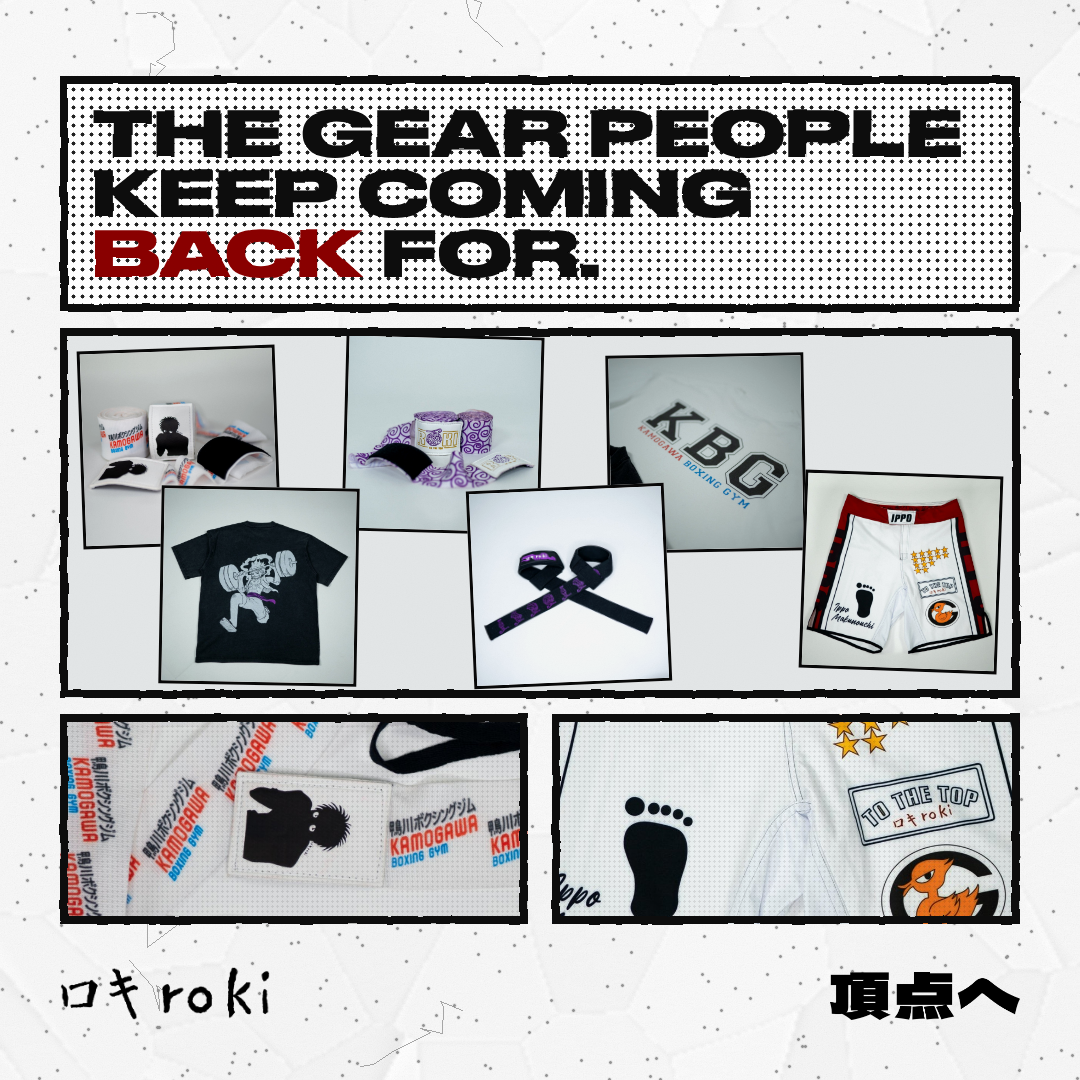
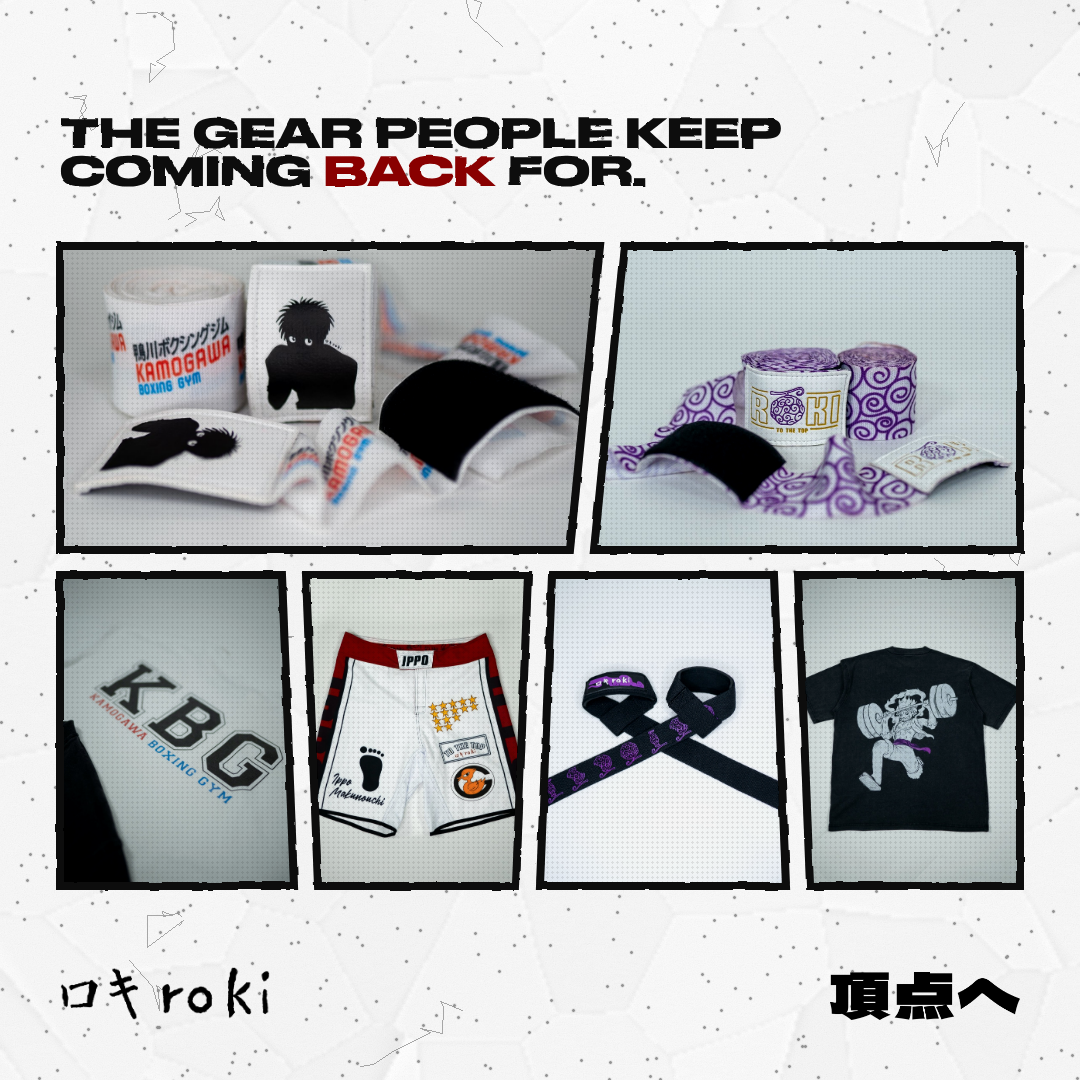
Revise AD-006 slides 1 and 8
Cover: the hook now sits straight on the page above a slanted-gutter manga
grid of the six best sellers, replacing the framed line-up with nested
detail panels. Slides 1 and 8 drop the screen-tone dots behind their
headlines so the copy reads cleanly.

Claude-Session: https://claude.ai/code/session_012ToaCKfjMXucVavzk9q6An

diff --git a/ads/AD-006/layout/slides/slide-1.html b/ads/AD-006/layout/slides/slide-1.html
@@ -44,6 +44,13 @@ font:700 32px/1.02 var(--font-display);letter-spacing:0}
 .chip.pname{font:700 36px/1 var(--font-display);color:var(--RokiRed);padding:12px 16px 8px}
 .cap{bottom:-30px;left:30px}
 .pn>img.ht{position:absolute;inset:0;width:100%;height:100%;object-fit:cover}
+.pn.text.plain{background:var(--paper)}
+.cell.bare::after{display:none}
+.cell.bare>.pn.text.plain{background:transparent;padding:0}
+.mp{position:absolute}
+.mp>img.ph{position:absolute;inset:0;width:100%;height:100%;object-fit:cover;filter:contrast(1.08) brightness(.96) saturate(.95)}
+.mp .tone{position:absolute;inset:0;background:radial-gradient(circle,rgba(8,8,8,.55) 32%,transparent 36%) 0 0/5px 5px;mix-blend-mode:multiply;opacity:.16}
+.mstroke{position:absolute;left:0;top:0;color:var(--panel);overflow:visible;z-index:3}
 
 .stack{z-index:2}
 .pn{outline:none!important}
@@ -61,7 +68,7 @@ body.dark #grainA{mix-blend-mode:screen;opacity:.08}
 <feDiffuseLighting in="n" surfaceScale="2" lighting-color="#fff"><feDistantLight azimuth="235" elevation="58"/></feDiffuseLighting></filter>
 <filter id="rough" x="-3%" y="-3%" width="106%" height="106%"><feTurbulence type="fractalNoise" baseFrequency=".035" numOctaves="3" seed="3" result="n"/>
 <feDisplacementMap in="SourceGraphic" in2="n" scale="3" xChannelSelector="R" yChannelSelector="G"/></filter>
-</defs></svg><img class="stock" src="../assets/grunge/paper/cool_0.jpg"><img class="gr" src="../assets/grunge/grunge/dust_0.png" style="opacity:0.4"><div id="grainA" style="filter:url(#grainf)"></div><div class="stack"><div class="row"><div class="cell" style="width:960px"><div class="pn text screentone"><div class="hook" style="filter:url(#rough)">THE GEAR PEOPLE KEEP COMING <span class="acc">BACK</span> FOR.</div></div></div></div><div class="row"><div class="cell" style="width:960px;height:370px"><div class="pn"><div style="position:absolute;inset:0;background:var(--studio-grey)"><div class="tile-frame" style="left:20px;top:20px;width:198px;height:198px;transform:rotate(-2deg)"><img src="../assets/kbg-wraps-2.jpg" style="object-position:50% 55%"></div><div class="tile-frame" style="left:284px;top:7px;width:198px;height:198px;transform:rotate(1.5deg)"><img src="../assets/gomu-2.jpg" style="object-position:50% 50%"></div><div class="tile-frame" style="left:547px;top:26px;width:198px;height:198px;transform:rotate(-1deg)"><img src="../assets/shirt-1.jpg" style="object-position:50% 50%"></div><div class="tile-frame" style="left:742px;top:145px;width:198px;height:198px;transform:rotate(2deg)"><img src="../assets/shorts-1.jpg" style="object-position:50% 50%"></div><div class="tile-frame" style="left:410px;top:159px;width:198px;height:198px;transform:rotate(-2.5deg)"><img src="../assets/straps-1.jpg" style="object-position:50% 50%"></div><div class="tile-frame" style="left:100px;top:159px;width:198px;height:198px;transform:rotate(1deg)"><img src="../assets/muki-2.jpg" style="object-position:50% 50%"></div></div></div></div></div><div class="row"><div class="cell" style="width:468px;height:210px"><div class="pn"><img class="ph" src="../assets/kbg-wraps-1.jpg" style="object-position:40% 50%;transform:scale(1.3);transform-origin:40% 50%;"><div class="tone"></div></div></div><div class="cell" style="width:468px;height:210px"><div class="pn"><img class="ph" src="../assets/shorts-1.jpg" style="object-position:50% 60%;transform:scale(1.5);transform-origin:50% 60%;"><div class="tone"></div></div></div></div></div><img class="logo" src="../assets/wordmark-black.png" style="left:60px;top:967px;width:210px"><img class="logo" src="../assets/choten-black.png" style="right:60px;top:972px;width:190px"><svg width="0" height="0" style="position:absolute"><filter id="roughf" x="-2%" y="-2%" width="104%" height="104%">
+</defs></svg><img class="stock" src="../assets/grunge/paper/cool_0.jpg"><img class="gr" src="../assets/grunge/grunge/dust_0.png" style="opacity:0.4"><div id="grainA" style="filter:url(#grainf)"></div><div class="stack"><div class="row"><div class="cell bare" style="width:960px"><div class="pn text plain"><div class="hook" style="filter:url(#rough)">THE GEAR PEOPLE KEEP COMING <span class="acc">BACK</span> FOR.</div></div></div></div><div class="row"><div class="cell bare" style="width:960px;height:640px"><div class="mp" style="left:0px;top:0px;width:540px;height:304px;clip-path:polygon(0px 0px,540px 0px,510px 304px,0px 304px)"><img class="ph" src="../assets/kbg-wraps-2.jpg" style="object-position:50% 55%;"><div class="tone"></div></div><div class="mp" style="left:534px;top:0px;width:426px;height:304px;clip-path:polygon(30px 0px,426px 0px,426px 304px,0px 304px)"><img class="ph" src="../assets/gomu-2.jpg" style="object-position:50% 50%;"><div class="tone"></div></div><div class="mp" style="left:0px;top:329px;width:234px;height:311px;clip-path:polygon(0px 0px,222px 0px,234px 311px,0px 311px)"><img class="ph" src="../assets/shirt-1.jpg" style="object-position:50% 50%;"><div class="tone"></div></div><div class="mp" style="left:246px;top:329px;width:222px;height:311px;clip-path:polygon(0px 0px,222px 0px,210px 311px,12px 311px)"><img class="ph" src="../assets/shorts-1.jpg" style="object-position:50% 50%;"><div class="tone"></div></div><div class="mp" style="left:480px;top:329px;width:246px;height:311px;clip-path:polygon(12px 0px,234px 0px,246px 311px,0px 311px)"><img class="ph" src="../assets/straps-1.jpg" style="object-position:50% 50%;"><div class="tone"></div></div><div class="mp" style="left:738px;top:329px;width:222px;height:311px;clip-path:polygon(0px 0px,222px 0px,222px 311px,12px 311px)"><img class="ph" src="../assets/muki-2.jpg" style="object-position:50% 50%;"><div class="tone"></div></div><svg class="mstroke" width="960" height="640"><g fill="none" stroke="currentColor" stroke-width="8" stroke-linejoin="miter" filter="url(#roughf)"><polygon points="0,0 540,0 510,304 0,304"/><polygon points="564,0 960,0 960,304 534,304"/><polygon points="0,329 222,329 234,640 0,640"/><polygon points="246,329 468,329 456,640 258,640"/><polygon points="492,329 714,329 726,640 480,640"/><polygon points="738,329 960,329 960,640 750,640"/></g></svg></div></div></div><img class="logo" src="../assets/wordmark-black.png" style="left:60px;top:967px;width:210px"><img class="logo" src="../assets/choten-black.png" style="right:60px;top:972px;width:190px"><svg width="0" height="0" style="position:absolute"><filter id="roughf" x="-2%" y="-2%" width="104%" height="104%">
 <feTurbulence type="fractalNoise" baseFrequency=".04" numOctaves="3" seed="11" result="n"/>
 <feDisplacementMap in="SourceGraphic" in2="n" scale="3" xChannelSelector="R" yChannelSelector="G"/></filter></svg><div id="grain" style="filter:url(#grainf)"></div><script>
 function fit(el,maxW,lo=40,hi=140){while(hi-lo>1){const m=(lo+hi)>>1;el.style.fontSize=m+'px';el.scrollWidth<=maxW?lo=m:hi=m}el.style.fontSize=lo+'px'}

diff --git a/ads/AD-006/layout/slides/slide-8.html b/ads/AD-006/layout/slides/slide-8.html
@@ -44,6 +44,13 @@ font:700 32px/1.02 var(--font-display);letter-spacing:0}
 .chip.pname{font:700 36px/1 var(--font-display);color:var(--RokiRed);padding:12px 16px 8px}
 .cap{bottom:-30px;left:30px}
 .pn>img.ht{position:absolute;inset:0;width:100%;height:100%;object-fit:cover}
+.pn.text.plain{background:var(--paper)}
+.cell.bare::after{display:none}
+.cell.bare>.pn.text.plain{background:transparent;padding:0}
+.mp{position:absolute}
+.mp>img.ph{position:absolute;inset:0;width:100%;height:100%;object-fit:cover;filter:contrast(1.08) brightness(.96) saturate(.95)}
+.mp .tone{position:absolute;inset:0;background:radial-gradient(circle,rgba(8,8,8,.55) 32%,transparent 36%) 0 0/5px 5px;mix-blend-mode:multiply;opacity:.16}
+.mstroke{position:absolute;left:0;top:0;color:var(--panel);overflow:visible;z-index:3}
 
 .stack{z-index:2}
 .pn{outline:none!important}
@@ -61,7 +68,7 @@ body.dark #grainA{mix-blend-mode:screen;opacity:.08}
 <feDiffuseLighting in="n" surfaceScale="2" lighting-color="#fff"><feDistantLight azimuth="235" elevation="58"/></feDiffuseLighting></filter>
 <filter id="rough" x="-3%" y="-3%" width="106%" height="106%"><feTurbulence type="fractalNoise" baseFrequency=".035" numOctaves="3" seed="3" result="n"/>
 <feDisplacementMap in="SourceGraphic" in2="n" scale="3" xChannelSelector="R" yChannelSelector="G"/></filter>
-</defs></svg><img class="gr" src="../assets/grunge/grunge/dust_1.png" style="opacity:0.3"><img class="mark" src="../assets/grunge/splatter/splat_3.png" style="left:850px;top:-130px;width:340px;height:340px;object-fit:contain;opacity:0.45"><div id="grainA" style="filter:url(#grainf)"></div><div class="stack"><div class="row"><div class="cell" style="width:304px;height:200px"><div class="pn"><img class="ph" src="../assets/kbg-wraps-2.jpg" style="object-position:50% 55%;"><div class="tone"></div></div></div><div class="cell" style="width:305px;height:200px"><div class="pn"><img class="ph" src="../assets/gomu-2.jpg" style="object-position:50% 50%;"><div class="tone"></div></div></div><div class="cell" style="width:303px;height:200px"><div class="pn"><img class="ph" src="../assets/shirt-1.jpg" style="object-position:50% 50%;"><div class="tone"></div></div></div></div><div class="row"><div class="cell" style="width:304px;height:200px"><div class="pn"><img class="ph" src="../assets/shorts-1.jpg" style="object-position:50% 50%;"><div class="tone"></div></div></div><div class="cell" style="width:305px;height:200px"><div class="pn"><img class="ph" src="../assets/straps-1.jpg" style="object-position:50% 50%;"><div class="tone"></div></div></div><div class="cell" style="width:303px;height:200px"><div class="pn"><img class="ph" src="../assets/muki-2.jpg" style="object-position:50% 50%;"><div class="tone"></div></div></div></div><div class="row"><div class="cell" style="width:960px"><div class="pn text screentone"><div class="end"><div class="big" style="filter:url(#rough)">FIND<br>YOURS.</div><div class="cta">SHOP NOW</div><div class="url">rokiovertime.com</div></div></div></div></div></div><img class="logo" src="../assets/wordmark-white.png" style="left:60px;top:967px;width:210px"><img class="logo" src="../assets/choten-white.png" style="right:60px;top:972px;width:190px"><svg width="0" height="0" style="position:absolute"><filter id="roughf" x="-2%" y="-2%" width="104%" height="104%">
+</defs></svg><img class="gr" src="../assets/grunge/grunge/dust_1.png" style="opacity:0.3"><img class="mark" src="../assets/grunge/splatter/splat_3.png" style="left:850px;top:-130px;width:340px;height:340px;object-fit:contain;opacity:0.45"><div id="grainA" style="filter:url(#grainf)"></div><div class="stack"><div class="row"><div class="cell" style="width:304px;height:200px"><div class="pn"><img class="ph" src="../assets/kbg-wraps-2.jpg" style="object-position:50% 55%;"><div class="tone"></div></div></div><div class="cell" style="width:305px;height:200px"><div class="pn"><img class="ph" src="../assets/gomu-2.jpg" style="object-position:50% 50%;"><div class="tone"></div></div></div><div class="cell" style="width:303px;height:200px"><div class="pn"><img class="ph" src="../assets/shirt-1.jpg" style="object-position:50% 50%;"><div class="tone"></div></div></div></div><div class="row"><div class="cell" style="width:304px;height:200px"><div class="pn"><img class="ph" src="../assets/shorts-1.jpg" style="object-position:50% 50%;"><div class="tone"></div></div></div><div class="cell" style="width:305px;height:200px"><div class="pn"><img class="ph" src="../assets/straps-1.jpg" style="object-position:50% 50%;"><div class="tone"></div></div></div><div class="cell" style="width:303px;height:200px"><div class="pn"><img class="ph" src="../assets/muki-2.jpg" style="object-position:50% 50%;"><div class="tone"></div></div></div></div><div class="row"><div class="cell" style="width:960px"><div class="pn text plain"><div class="end"><div class="big" style="filter:url(#rough)">FIND<br>YOURS.</div><div class="cta">SHOP NOW</div><div class="url">rokiovertime.com</div></div></div></div></div></div><img class="logo" src="../assets/wordmark-white.png" style="left:60px;top:967px;width:210px"><img class="logo" src="../assets/choten-white.png" style="right:60px;top:972px;width:190px"><svg width="0" height="0" style="position:absolute"><filter id="roughf" x="-2%" y="-2%" width="104%" height="104%">
 <feTurbulence type="fractalNoise" baseFrequency=".04" numOctaves="3" seed="11" result="n"/>
 <feDisplacementMap in="SourceGraphic" in2="n" scale="3" xChannelSelector="R" yChannelSelector="G"/></filter></svg><div id="grain" style="filter:url(#grainf)"></div><script>
 function fit(el,maxW,lo=40,hi=140){while(hi-lo>1){const m=(lo+hi)>>1;el.style.fontSize=m+'px';el.scrollWidth<=maxW?lo=m:hi=m}el.style.fontSize=lo+'px'}

diff --git a/ads/AD-006/layout/slides/slide-2.html b/ads/AD-006/layout/slides/slide-2.html
@@ -44,6 +44,13 @@ font:700 32px/1.02 var(--font-display);letter-spacing:0}
 .chip.pname{font:700 36px/1 var(--font-display);color:var(--RokiRed);padding:12px 16px 8px}
 .cap{bottom:-30px;left:30px}
 .pn>img.ht{position:absolute;inset:0;width:100%;height:100%;object-fit:cover}
+.pn.text.plain{background:var(--paper)}
+.cell.bare::after{display:none}
+.cell.bare>.pn.text.plain{background:transparent;padding:0}
+.mp{position:absolute}
+.mp>img.ph{position:absolute;inset:0;width:100%;height:100%;object-fit:cover;filter:contrast(1.08) brightness(.96) saturate(.95)}
+.mp .tone{position:absolute;inset:0;background:radial-gradient(circle,rgba(8,8,8,.55) 32%,transparent 36%) 0 0/5px 5px;mix-blend-mode:multiply;opacity:.16}
+.mstroke{position:absolute;left:0;top:0;color:var(--panel);overflow:visible;z-index:3}
 
 .stack{z-index:2}
 .pn{outline:none!important}

diff --git a/ads/AD-006/layout/slides/slide-3.html b/ads/AD-006/layout/slides/slide-3.html
@@ -44,6 +44,13 @@ font:700 32px/1.02 var(--font-display);letter-spacing:0}
 .chip.pname{font:700 36px/1 var(--font-display);color:var(--RokiRed);padding:12px 16px 8px}
 .cap{bottom:-30px;left:30px}
 .pn>img.ht{position:absolute;inset:0;width:100%;height:100%;object-fit:cover}
+.pn.text.plain{background:var(--paper)}
+.cell.bare::after{display:none}
+.cell.bare>.pn.text.plain{background:transparent;padding:0}
+.mp{position:absolute}
+.mp>img.ph{position:absolute;inset:0;width:100%;height:100%;object-fit:cover;filter:contrast(1.08) brightness(.96) saturate(.95)}
+.mp .tone{position:absolute;inset:0;background:radial-gradient(circle,rgba(8,8,8,.55) 32%,transparent 36%) 0 0/5px 5px;mix-blend-mode:multiply;opacity:.16}
+.mstroke{position:absolute;left:0;top:0;color:var(--panel);overflow:visible;z-index:3}
 
 .stack{z-index:2}
 .pn{outline:none!important}

diff --git a/ads/AD-006/layout/slides/slide-4.html b/ads/AD-006/layout/slides/slide-4.html
@@ -44,6 +44,13 @@ font:700 32px/1.02 var(--font-display);letter-spacing:0}
 .chip.pname{font:700 36px/1 var(--font-display);color:var(--RokiRed);padding:12px 16px 8px}
 .cap{bottom:-30px;left:30px}
 .pn>img.ht{position:absolute;inset:0;width:100%;height:100%;object-fit:cover}
+.pn.text.plain{background:var(--paper)}
+.cell.bare::after{display:none}
+.cell.bare>.pn.text.plain{background:transparent;padding:0}
+.mp{position:absolute}
+.mp>img.ph{position:absolute;inset:0;width:100%;height:100%;object-fit:cover;filter:contrast(1.08) brightness(.96) saturate(.95)}
+.mp .tone{position:absolute;inset:0;background:radial-gradient(circle,rgba(8,8,8,.55) 32%,transparent 36%) 0 0/5px 5px;mix-blend-mode:multiply;opacity:.16}
+.mstroke{position:absolute;left:0;top:0;color:var(--panel);overflow:visible;z-index:3}
 
 .stack{z-index:2}
 .pn{outline:none!important}

diff --git a/ads/AD-006/layout/slides/slide-5.html b/ads/AD-006/layout/slides/slide-5.html
@@ -44,6 +44,13 @@ font:700 32px/1.02 var(--font-display);letter-spacing:0}
 .chip.pname{font:700 36px/1 var(--font-display);color:var(--RokiRed);padding:12px 16px 8px}
 .cap{bottom:-30px;left:30px}
 .pn>img.ht{position:absolute;inset:0;width:100%;height:100%;object-fit:cover}
+.pn.text.plain{background:var(--paper)}
+.cell.bare::after{display:none}
+.cell.bare>.pn.text.plain{background:transparent;padding:0}
+.mp{position:absolute}
+.mp>img.ph{position:absolute;inset:0;width:100%;height:100%;object-fit:cover;filter:contrast(1.08) brightness(.96) saturate(.95)}
+.mp .tone{position:absolute;inset:0;background:radial-gradient(circle,rgba(8,8,8,.55) 32%,transparent 36%) 0 0/5px 5px;mix-blend-mode:multiply;opacity:.16}
+.mstroke{position:absolute;left:0;top:0;color:var(--panel);overflow:visible;z-index:3}
 
 .stack{z-index:2}
 .pn{outline:none!important}

diff --git a/ads/AD-006/layout/slides/slide-6.html b/ads/AD-006/layout/slides/slide-6.html
@@ -44,6 +44,13 @@ font:700 32px/1.02 var(--font-display);letter-spacing:0}
 .chip.pname{font:700 36px/1 var(--font-display);color:var(--RokiRed);padding:12px 16px 8px}
 .cap{bottom:-30px;left:30px}
 .pn>img.ht{position:absolute;inset:0;width:100%;height:100%;object-fit:cover}
+.pn.text.plain{background:var(--paper)}
+.cell.bare::after{display:none}
+.cell.bare>.pn.text.plain{background:transparent;padding:0}
+.mp{position:absolute}
+.mp>img.ph{position:absolute;inset:0;width:100%;height:100%;object-fit:cover;filter:contrast(1.08) brightness(.96) saturate(.95)}
+.mp .tone{position:absolute;inset:0;background:radial-gradient(circle,rgba(8,8,8,.55) 32%,transparent 36%) 0 0/5px 5px;mix-blend-mode:multiply;opacity:.16}
+.mstroke{position:absolute;left:0;top:0;color:var(--panel);overflow:visible;z-index:3}
 
 .stack{z-index:2}
 .pn{outline:none!important}

diff --git a/ads/AD-006/layout/slides/slide-7.html b/ads/AD-006/layout/slides/slide-7.html
@@ -44,6 +44,13 @@ font:700 32px/1.02 var(--font-display);letter-spacing:0}
 .chip.pname{font:700 36px/1 var(--font-display);color:var(--RokiRed);padding:12px 16px 8px}
 .cap{bottom:-30px;left:30px}
 .pn>img.ht{position:absolute;inset:0;width:100%;height:100%;object-fit:cover}
+.pn.text.plain{background:var(--paper)}
+.cell.bare::after{display:none}
+.cell.bare>.pn.text.plain{background:transparent;padding:0}
+.mp{position:absolute}
+.mp>img.ph{position:absolute;inset:0;width:100%;height:100%;object-fit:cover;filter:contrast(1.08) brightness(.96) saturate(.95)}
+.mp .tone{position:absolute;inset:0;background:radial-gradient(circle,rgba(8,8,8,.55) 32%,transparent 36%) 0 0/5px 5px;mix-blend-mode:multiply;opacity:.16}
+.mstroke{position:absolute;left:0;top:0;color:var(--panel);overflow:visible;z-index:3}
 
 .stack{z-index:2}
 .pn{outline:none!important}

diff --git a/ads/AD-006/layout/src/build_h4.py b/ads/AD-006/layout/src/build_h4.py
@@ -20,6 +20,13 @@ FLOW_CSS = """
 .chip.pname{font:700 36px/1 var(--font-display);color:var(--RokiRed);padding:12px 16px 8px}
 .cap{bottom:-30px;left:30px}
 .pn>img.ht{position:absolute;inset:0;width:100%;height:100%;object-fit:cover}
+.pn.text.plain{background:var(--paper)}
+.cell.bare::after{display:none}
+.cell.bare>.pn.text.plain{background:transparent;padding:0}
+.mp{position:absolute}
+.mp>img.ph{position:absolute;inset:0;width:100%;height:100%;object-fit:cover;filter:contrast(1.08) brightness(.96) saturate(.95)}
+.mp .tone{position:absolute;inset:0;background:radial-gradient(circle,rgba(8,8,8,.55) 32%,transparent 36%) 0 0/5px 5px;mix-blend-mode:multiply;opacity:.16}
+.mstroke{position:absolute;left:0;top:0;color:var(--panel);overflow:visible;z-index:3}
 """
 
 FIT = """<script>
@@ -44,8 +51,43 @@ def copy_html(kind, wide):
     return f'<div class="{"inline" if wide else "stackcopy"}">{name}{line}</div>'
 
 
+# Cover manga page: the two top sellers get the big panels, the other four share the row below.
+# Local coords in a 960 x 610 cell; neighbouring edges are offset by the 24 px gutter so slanted gutters stay even.
+MANGA = [
+    ("kbg-hero",    [(0, 0), (540, 0), (510, 290), (0, 290)]),
+    ("gomu-hero",   [(564, 0), (960, 0), (960, 290), (534, 290)]),
+    ("shirt-hero",  [(0, 314), (222, 314), (234, 610), (0, 610)]),
+    ("shorts-hero", [(246, 314), (468, 314), (456, 610), (258, 610)]),
+    ("straps-hero", [(492, 314), (714, 314), (726, 610), (480, 610)]),
+    ("muki-hero",   [(738, 314), (960, 314), (960, 610), (750, 610)]),
+]
+
+
+def manga_html(w, h):
+    sx, sy = w / 960, h / 610
+    panels, strokes = "", ""
+    for key, pts in MANGA:
+        pts = [(round(x * sx), round(y * sy)) for x, y in pts]
+        # each photo fills its own panel's bounding box, then the slant is clipped from that box
+        bx, by = min(x for x, _ in pts), min(y for _, y in pts)
+        bw, bh = max(x for x, _ in pts) - bx, max(y for _, y in pts) - by
+        clip = ",".join(f"{x - bx}px {y - by}px" for x, y in pts)
+        panels += (f'<div class="mp" style="left:{bx}px;top:{by}px;width:{bw}px;height:{bh}px;'
+                   f'clip-path:polygon({clip})">{photo(key)}</div>')
+        strokes += f'<polygon points="{" ".join(f"{x},{y}" for x, y in pts)}"/>'
+    svg = (f'<svg class="mstroke" width="{w}" height="{h}"><g fill="none" stroke="currentColor" stroke-width="8" '
+           f'stroke-linejoin="miter" filter="url(#roughf)">{strokes}</g></svg>')
+    return panels + svg
+
+
 def cell_html(kind, c, w, h, first_hero):
     style = f"width:{w}px;height:{h}px"
+    if c == "text" and kind == "cover":   # the hook sits straight on the page: no panel, no tone behind it
+        return f'<div class="cell bare" style="width:{w}px"><div class="pn text plain">{copy_html(kind, True)}</div></div>', False
+    if c == "text" and kind == "end":     # headline on clean paper so it reads
+        return f'<div class="cell" style="width:{w}px"><div class="pn text plain">{copy_html(kind, True)}</div></div>', False
+    if c == "manga":
+        return f'<div class="cell bare" style="{style}">{manga_html(w, h)}</div>', False
     if c == "text":
         return f'<div class="cell" style="width:{w}px"><div class="pn text screentone">{copy_html(kind, w > 700)}</div></div>', False
     if c == "lineup":

diff --git a/ads/AD-006/layout/src/build_sq.py b/ads/AD-006/layout/src/build_sq.py
@@ -7,7 +7,7 @@ from build import OUT, SLIDES, IMG, TILES
 
 S = 1080
 STACKS = {
-    "cover":  [(238, "text"), (370, "lineup"), (210, ((0.5, "kbg-detail"), (0.5, "shorts-detail")))],
+    "cover":  [(200, "text"), (640, "manga")],   # hook on the page, then one manga page of all six best sellers
     "kbg":    [(480, "kbg-hero"), (200, "ht:kbg-life-sq"), (120, "text")],
     "gomu":   [(120, "text"), (680, "gomu-hero")],
     "shirt":  [(330, ((0.6, "shirt-hero"), (0.4, "shirt-close"))), (220, "ht:shirt-life-sq"), (120, "text")],

diff --git a/ads/AD-006/layout/README.md b/ads/AD-006/layout/README.md
@@ -1,6 +1,6 @@
 # AD-006 Best Sellers Static Carousel: approved layout
 
-Brief BR-006, approved by Shan on 27 Oct 2026, then revised on 28 Oct 2026 to remove prices. This is the source for every later stage.
+Brief BR-006, approved by Shan on 27 Oct 2026. Revised on 28 Oct 2026: prices removed, then slides 1 and 8 reworked (headlines on plain paper, and a manga grid on the cover). This is the source for every later stage.
 
 - `slides/slide-1.png` to `slide-8.png`: the approved finished slides, 1080 × 1080.
 - `slides/slide-*.html`: their sources. Open one in Chromium and it renders the same as the PNG, pixel for pixel. Rendering waits on `document.body.dataset.ready === '1'`.
@@ -17,14 +17,14 @@ Brief BR-006, approved by Shan on 27 Oct 2026, then revised on 28 Oct 2026 to re
 
 | # | Ground | Content |
 |---|---|---|
-| 1 | paper | Hook "THE GEAR PEOPLE KEEP COMING BACK FOR." over a line-up of all six flat lays, with wrap and shorts detail panels |
+| 1 | paper | Hook "THE GEAR PEOPLE KEEP COMING BACK FOR." straight on the page, above a manga page of all six best sellers: the Kamogawa and Gomu wraps in two big panels, then the Shirt, Shorts, Straps and Pump Cover in a row of four, all with slanted gutters |
 | 2 | ink | Kamogawa Boxing Gym Hand Wraps, RokiRed halftone strip of a wrapped fist |
 | 3 | studio grey | Gomu Hand Wraps |
 | 4 | paper | Kamogawa Boxing Gym Training Shirt: chest print and sleeve tag, RokiRed halftone of the KBG back print |
 | 5 | ink | Ippo Fight Shorts: front and back |
 | 6 | studio grey | The Fruit Lifting Straps, RokiRed halftone of a strap grip |
 | 7 | paper | Muki Muki Pump Cover: back print, RokiRed halftone of the print on a model |
-| 8 | ink | End card: six product tiles, "FIND YOURS.", SHOP NOW, rokiovertime.com |
+| 8 | ink | End card: six product tiles, then "FIND YOURS.", SHOP NOW and rokiovertime.com on plain white paper |
 
 ## Overrides and open items (Shan's instructions, this ad only)
 
